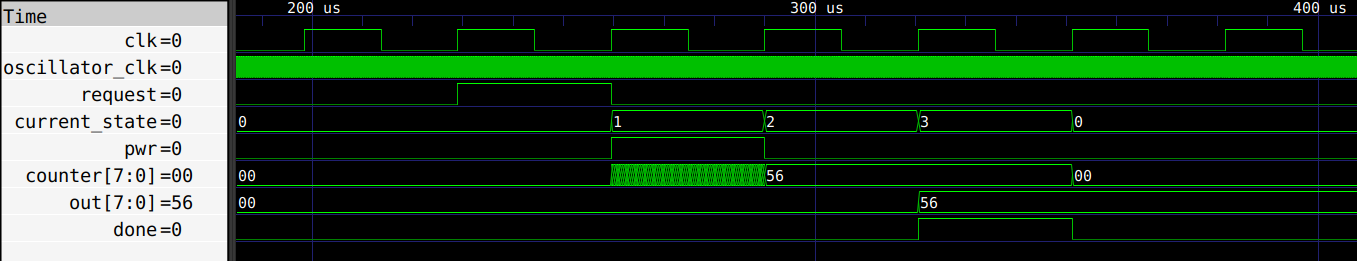
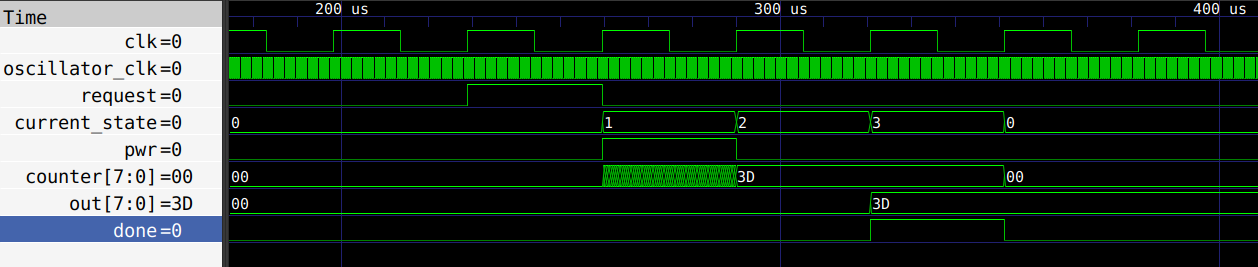
error in the waveform.png

Changed region(s): [[0.0, 0.0, 1.0, 1.0]]

diff --git a/README.md b/README.md
@@ -50,7 +50,7 @@ With a 2MHz oscillator signal, we get the following waveforms:
 
 <sub> Figure 2: Example of a waveform from the FSM </sub>
 
-When the request signal is received, the FSM start to power up the analog part and count the number of pulses generated by oscillator in the internal variable counter. Next, it powers down the analog, puts the value of the counter variable in the out variable and generate a pulse through the done wire to indicate the end of the measurement. In this example we get 56 pulses (in hexadecimal) during one period of the reference clock.
+When the request signal is received, the FSM start to power up the analog part and count the number of pulses generated by oscillator in the internal variable counter. Next, it powers down the analog, puts the value of the counter variable in the out variable and generate a pulse through the done wire to indicate the end of the measurement. In this example we get 0x3D pulses (in hexadecimal, or 61 in decimal) during one period of the reference clock.
 
 We can plot the output of the counter in function of the oscillator frequency, as shown in the next figure:
 
